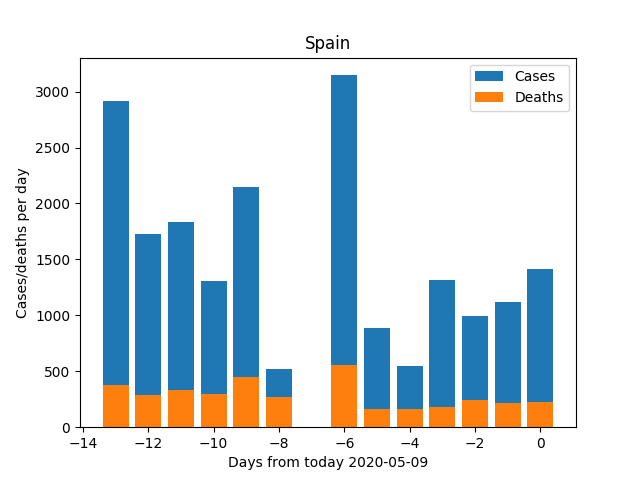
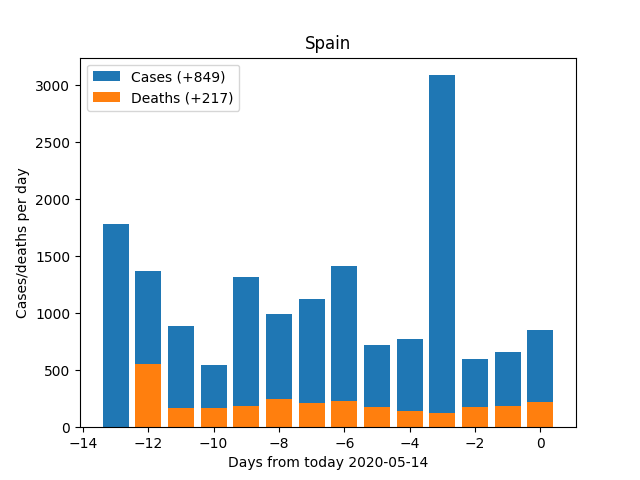
14 mayo

diff --git a/scripts/my_analysis.py b/scripts/my_analysis.py
@@ -117,7 +117,7 @@ def analyze_country(country1,day=0,do_plot=True):
 
          plt.grid(b=True, which="major")
          plt.grid(b=True, which="minor")
-         filepng = "../figures/%s_%s.png" % (country1,date.today())
+         filepng = "../figures/%s_plot.png" % (country1)
          plt.savefig(filepng)
          print("File %s written to file." % filepng)
          plt.show()
@@ -201,12 +201,12 @@ def new_cases(country1):
     #      title=country1,
     #      legend=["New cases","New deaths"])
 
-    plt.bar(t1[1:], c1[1:]-c1[0:-1])
+    plt.bar(t1[1:], c1[1:] - c1[0:-1])
     plt.bar(t1[1:], d1[1:] - d1[0:-1], )
     plt.title(country1)
     plt.xlabel("Days from today %s" % date.today())
     plt.ylabel("Cases/deaths per day")
-    plt.legend(labels=['Cases', 'Deaths'])
+    plt.legend(labels=['Cases (+%d)' % (c1[1:] - c1[0:-1])[-1], 'Deaths (+%d)' % (d1[1:] - d1[0:-1])[-1]])
     # plt.grid(True)
     filepng = "../figures/%s_new_cases.png" % country1
     plt.savefig(filepng)
